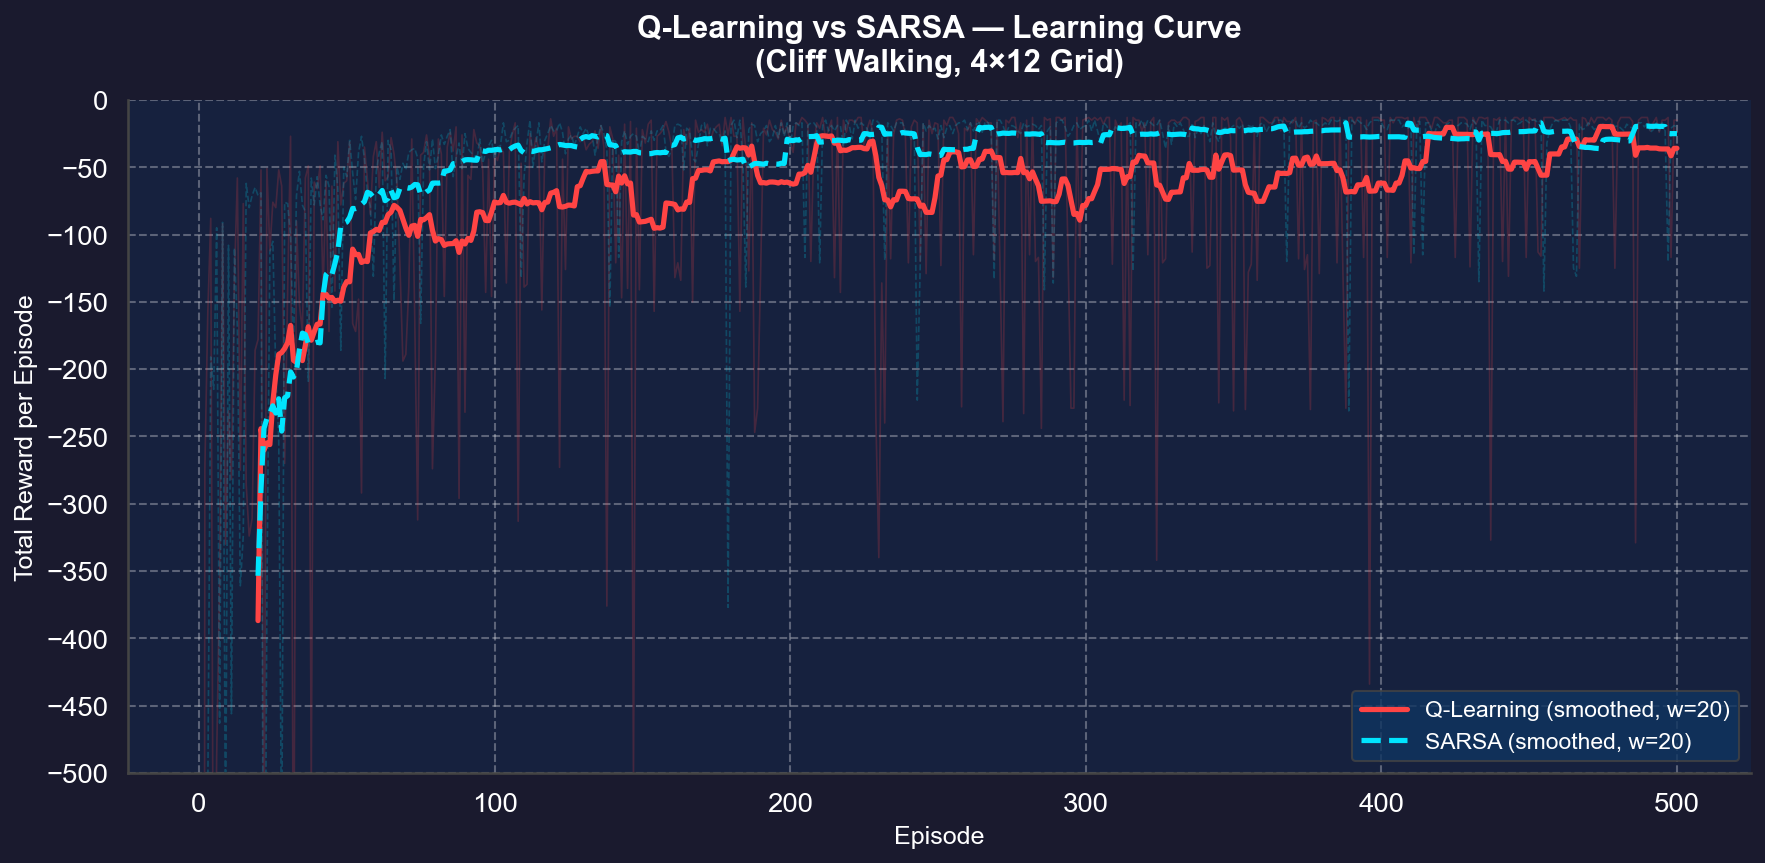
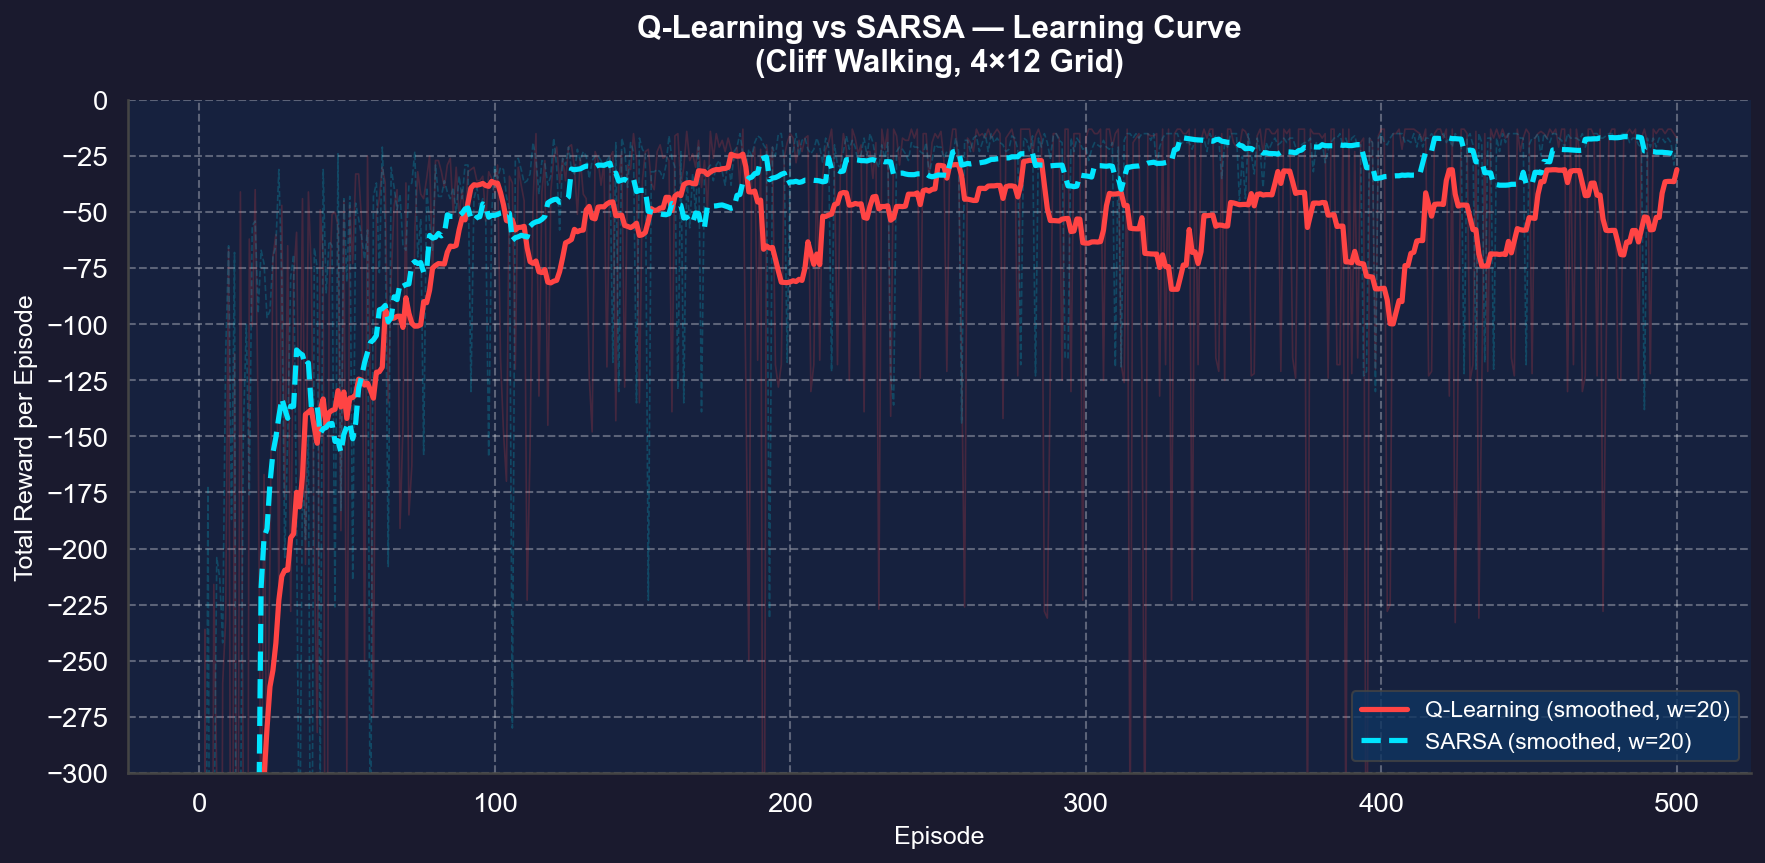
feat: Graph y-axis -300, split style into style_policy.png(arrows) and style_path.png(white path)

diff --git a/main.py b/main.py
@@ -28,8 +28,9 @@ EPSILON        = 0.1
 SMOOTH_WINDOW  = 20   # Rolling average window for learning curve
 
 # Output paths
-GRAPH_PATH = "Graph.png"
-STYLE_PATH = "style.png"
+GRAPH_PATH        = "Graph.png"
+STYLE_POLICY_PATH = "style_policy.png"   # Fig 1: policy direction arrows
+STYLE_PATH_PATH   = "style_path.png"     # Fig 2: optimal path on clean grid
 
 # ─────────────────────────────────────────────
 # Seaborn / Matplotlib global style
@@ -110,9 +111,9 @@ def plot_learning_curve(q_rewards, s_rewards, smooth_window, save_path):
     ax.plot(smooth_x, smooth_q, color=COLORS["qlearning"], linewidth=2.5, label=f"Q-Learning (smoothed, w={smooth_window})")
     ax.plot(smooth_x, smooth_s, color=COLORS["sarsa"],     linewidth=2.5, linestyle='--', label=f"SARSA (smoothed, w={smooth_window})")
 
-    # ── Fix Y-axis to -500 ~ 0 for clear comparison ──
-    ax.set_ylim(-500, 0)
-    ax.set_yticks(range(-500, 1, 50))
+    # ── Fix Y-axis to -300 ~ 0 ──
+    ax.set_ylim(-300, 0)
+    ax.set_yticks(range(-300, 1, 25))
 
     ax.set_title("Q-Learning vs SARSA — Learning Curve\n(Cliff Walking, 4×12 Grid)", color='white', fontsize=15, fontweight='bold', pad=14)
     ax.set_xlabel("Episode", color='white', fontsize=12)
@@ -310,6 +311,191 @@ def plot_policy_style(q_agent, s_agent, env, save_path):
 
 
 # ─────────────────────────────────────────────
+# Fig 1: Policy Direction Map  (style_policy.png)
+# White background, bold arrow per cell, no gradient
+# ─────────────────────────────────────────────
+
+ARROW_CHARS = {0: '^', 1: 'v', 2: '<', 3: '>'}   # ASCII fallback
+
+
+def _draw_policy_grid(ax, agent, env, title):
+    """Draw one policy grid panel on the given axes (white background, bold arrows)."""
+    rows, cols = env.get_grid_shape()
+    ax.set_facecolor('white')
+    ax.set_xlim(0, cols)
+    ax.set_ylim(rows, 0)   # row 0 at top
+
+    # ── Fill special cells first ──
+    for r in range(rows):
+        for c in range(cols):
+            pos = (r, c)
+            if pos in env.cliff:
+                ax.add_patch(plt.Rectangle((c, r), 1, 1,
+                             color='#AED6F1', zorder=1))   # light blue cliff
+
+    # ── Grid lines (drawn after fill so they sit on top) ──
+    for x in range(cols + 1):
+        ax.axvline(x, color='black', linewidth=1.2, zorder=2)
+    for y in range(rows + 1):
+        ax.axhline(y, color='black', linewidth=1.2, zorder=2)
+
+    # ── Cell content ──
+    for r in range(rows):
+        for c in range(cols):
+            pos = (r, c)
+            cx, cy = c + 0.5, r + 0.5
+            if pos in env.cliff:
+                # Label only at the center column of cliff
+                if c == (env.cols // 2):
+                    ax.text(cx, cy, 'Cliff', ha='center', va='center',
+                            fontsize=9, color='#1A5276', fontweight='bold', zorder=3)
+            elif pos == env.start:
+                ax.text(cx, cy, 'S', ha='center', va='center',
+                        fontsize=13, color='black', fontweight='bold', zorder=3)
+            elif pos == env.goal:
+                ax.text(cx, cy, 'G', ha='center', va='center',
+                        fontsize=13, color='black', fontweight='bold', zorder=3)
+            else:
+                state = r * cols + c
+                best_a = agent.get_best_action(state)
+                # Use matplotlib arrow annotation centered in cell
+                u = ACTION_DC[best_a]
+                v = -ACTION_DR[best_a]   # flip: imshow row-down = positive y-down
+                ax.annotate("",
+                    xy     =(cx + u * 0.30, cy - v * 0.30),
+                    xytext =(cx - u * 0.30, cy + v * 0.30),
+                    arrowprops=dict(
+                        arrowstyle="-|>",
+                        color='black',
+                        lw=2.2,
+                        mutation_scale=20,
+                    ),
+                    zorder=4
+                )
+
+    # ── Axes cosmetics ──
+    ax.set_xticks([])
+    ax.set_yticks([])
+    ax.set_title(title, fontsize=12, fontweight='bold', color='black', pad=8)
+    for spine in ax.spines.values():
+        spine.set_color('black')
+        spine.set_linewidth(1.5)
+
+
+def plot_policy_arrows(q_agent, s_agent, env, save_path):
+    """Save style_policy.png: 1x2 subplots of policy direction maps."""
+    fig, axes = plt.subplots(1, 2, figsize=(20, 5))
+    fig.patch.set_facecolor('white')
+    _draw_policy_grid(axes[0], q_agent, env, "Q-Learning Policy  (Off-policy)")
+    _draw_policy_grid(axes[1], s_agent, env, "SARSA Policy  (On-policy)")
+    fig.suptitle("Learned Policy Maps — Q-Learning vs SARSA",
+                 fontsize=14, fontweight='bold', color='black', y=1.01)
+    plt.tight_layout()
+    plt.savefig(save_path, dpi=150, bbox_inches='tight', facecolor='white')
+    plt.close()
+    print(f"[✓] Saved policy map → {save_path}")
+
+
+# ─────────────────────────────────────────────
+# Fig 2: Optimal Path Map  (style_path.png)
+# White background, no gradient, path overlay only
+# ─────────────────────────────────────────────
+
+def _draw_path_grid(ax, agent, env, title, path_color):
+    """Draw one path-grid panel: plain white grid, cliff shaded, path overlaid."""
+    rows, cols = env.get_grid_shape()
+    ax.set_facecolor('white')
+    ax.set_xlim(0, cols)
+    ax.set_ylim(rows, 0)
+
+    # ── Cliff shading ──
+    for r in range(rows):
+        for c in range(cols):
+            if (r, c) in env.cliff:
+                ax.add_patch(plt.Rectangle((c, r), 1, 1,
+                             color='#AED6F1', zorder=1))
+
+    # ── Grid lines ──
+    for x in range(cols + 1):
+        ax.axvline(x, color='black', linewidth=1.0, zorder=2)
+    for y in range(rows + 1):
+        ax.axhline(y, color='black', linewidth=1.0, zorder=2)
+
+    # ── Cell labels: S, G, Cliff ──
+    for r in range(rows):
+        for c in range(cols):
+            pos = (r, c)
+            cx, cy = c + 0.5, r + 0.5
+            if pos == env.start:
+                ax.text(cx, cy, 'S', ha='center', va='center',
+                        fontsize=13, fontweight='bold', color='black', zorder=5)
+            elif pos == env.goal:
+                ax.text(cx, cy, 'G', ha='center', va='center',
+                        fontsize=13, fontweight='bold', color='black', zorder=5)
+            elif pos in env.cliff and c == (env.cols // 2):
+                ax.text(cx, cy, 'Cliff', ha='center', va='center',
+                        fontsize=9, color='#1A5276', fontweight='bold', zorder=3)
+
+    # ── Optimal path ──
+    opt_path = get_optimal_path(agent, env)
+    if opt_path is not None:
+        px = [p[1] + 0.5 for p in opt_path]
+        py = [p[0] + 0.5 for p in opt_path]
+        ax.plot(px, py, color=path_color, linewidth=3.0, zorder=6,
+                marker='o', markersize=7,
+                markerfacecolor=path_color, markeredgecolor='black', markeredgewidth=1)
+        # Start square & Goal star
+        ax.plot(px[0],  py[0],  's', color='limegreen',
+                markersize=12, zorder=7, markeredgecolor='black', markeredgewidth=1.2)
+        ax.plot(px[-1], py[-1], '*', color='gold',
+                markersize=18, zorder=7, markeredgecolor='black', markeredgewidth=0.8)
+        print(f"    [{title}] path: {len(opt_path)} steps")
+    else:
+        ax.text(cols / 2, rows / 2, 'No path found', ha='center', va='center',
+                fontsize=12, color='red')
+        print(f"    [{title}] WARNING: path did not reach Goal")
+
+    # ── Axes cosmetics ──
+    ax.set_xticks([])
+    ax.set_yticks([])
+    ax.set_title(title, fontsize=12, fontweight='bold', color='black', pad=8)
+    for spine in ax.spines.values():
+        spine.set_color('black')
+        spine.set_linewidth(1.5)
+
+
+def plot_optimal_paths(q_agent, s_agent, env, save_path):
+    """Save style_path.png: 1x2 subplots, white grid with path overlay."""
+    fig, axes = plt.subplots(1, 2, figsize=(20, 5))
+    fig.patch.set_facecolor('white')
+    _draw_path_grid(axes[0], q_agent, env,
+                    "Q-Learning  (Off-policy)", path_color='#E53935')   # red path
+    _draw_path_grid(axes[1], s_agent, env,
+                    "SARSA  (On-policy)",       path_color='#1565C0')   # blue path
+
+    # ── Legend ──
+    legend_elements = [
+        mpatches.Patch(color='#AED6F1', label='Cliff area'),
+        plt.Line2D([0], [0], color='#E53935', lw=2.5, marker='o', markersize=6,
+                   label='Optimal Path (Q-Learning)'),
+        plt.Line2D([0], [0], color='#1565C0', lw=2.5, marker='o', markersize=6,
+                   label='Optimal Path (SARSA)'),
+        plt.Line2D([0], [0], marker='s', color='w', markerfacecolor='limegreen',
+                   markersize=10, markeredgecolor='black', label='S = Start'),
+        plt.Line2D([0], [0], marker='*', color='w', markerfacecolor='gold',
+                   markersize=14, markeredgecolor='black', label='G = Goal'),
+    ]
+    fig.legend(handles=legend_elements, loc='lower center', ncol=5,
+               facecolor='white', edgecolor='#ccc', labelcolor='black', fontsize=10,
+               bbox_to_anchor=(0.5, -0.1))
+    fig.suptitle("Optimal Paths — Q-Learning vs SARSA  (Cliff Walking 4x12)",
+                 fontsize=14, fontweight='bold', color='black', y=1.01)
+    plt.tight_layout()
+    plt.savefig(save_path, dpi=150, bbox_inches='tight', facecolor='white')
+    plt.close()
+    print(f"[✓] Saved path map → {save_path}")
+
+# ─────────────────────────────────────────────
 # Main Execution with Crash Guard
 # ─────────────────────────────────────────────
 
@@ -339,11 +525,15 @@ def main():
     # ── Plot ──
     print("\n[Plotting] Generating visualizations...")
     plot_learning_curve(q_rewards, s_rewards, SMOOTH_WINDOW, GRAPH_PATH)
-    plot_policy_style(q_agent, s_agent, env, STYLE_PATH)
+    print("[Plotting] style_policy.png — policy direction maps...")
+    plot_policy_arrows(q_agent, s_agent, env, STYLE_POLICY_PATH)
+    print("[Plotting] style_path.png — optimal path maps...")
+    plot_optimal_paths(q_agent, s_agent, env, STYLE_PATH_PATH)
 
-    print("\n✅ All done! Results saved to:")
-    print(f"   • {GRAPH_PATH}")
-    print(f"   • {STYLE_PATH}")
+    print("\nAll done! Results saved to:")
+    print(f"   - {GRAPH_PATH}")
+    print(f"   - {STYLE_POLICY_PATH}")
+    print(f"   - {STYLE_PATH_PATH}")
 
     return q_rewards, s_rewards, q_agent, s_agent
 
